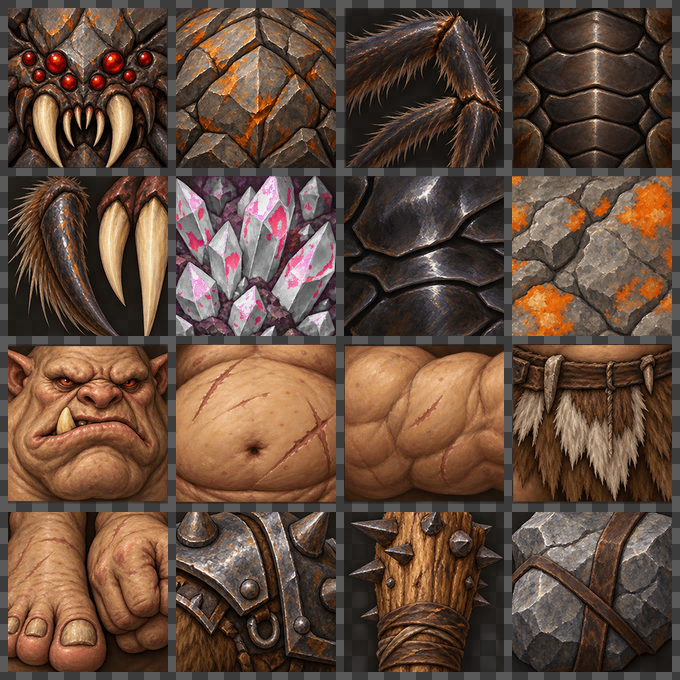
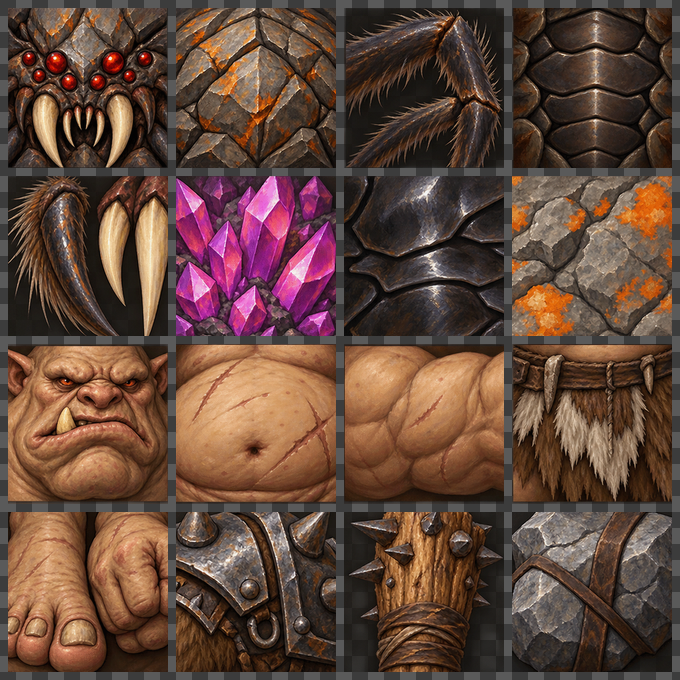
Fix model textures: always write a team mask, monsters have no team color
Skin atlases without magenta had no _team mask, so the game loaded a
missing mask and painted the whole model in team color (bandits, wolves,
trolls, harpies, sentinel, two building sheets). Process now writes an
all-black mask for those, and monster skins no longer mark team cells.

Changed region(s): [[0.2471, 0.2471, 0.4941, 0.4941]]

diff --git a/tools/art/process.ts b/tools/art/process.ts
@@ -121,6 +121,11 @@ async function writeAtlas(name: string, results: CellResult[], dir: string): Pro
   }
   const blank = () => sharp({ create: { width, height, channels: 4, background: { r: 0, g: 0, b: 0, alpha: skin ? 1 : 0 } } });
   await blank().composite(composites).webp(WEBP).toFile(join(dir, `${name}.webp`));
+  // Model skins always get a team mask file (all black = no team color, e.g. neutral monsters),
+  // otherwise the game would load a missing mask and paint the whole model in team color.
+  if (skin && !masks.length) {
+    await blank().flatten({ background: '#000000' }).webp({ quality: 90 }).toFile(join(dir, `${name}_team.webp`));
+  }
   if (masks.length) {
     await blank().composite(masks).flatten({ background: '#000000' }).webp({ quality: 90 }).toFile(join(dir, `${name}_team.webp`));
     // Blender preview copy: team parts in red, so they are easy to see in renders.
